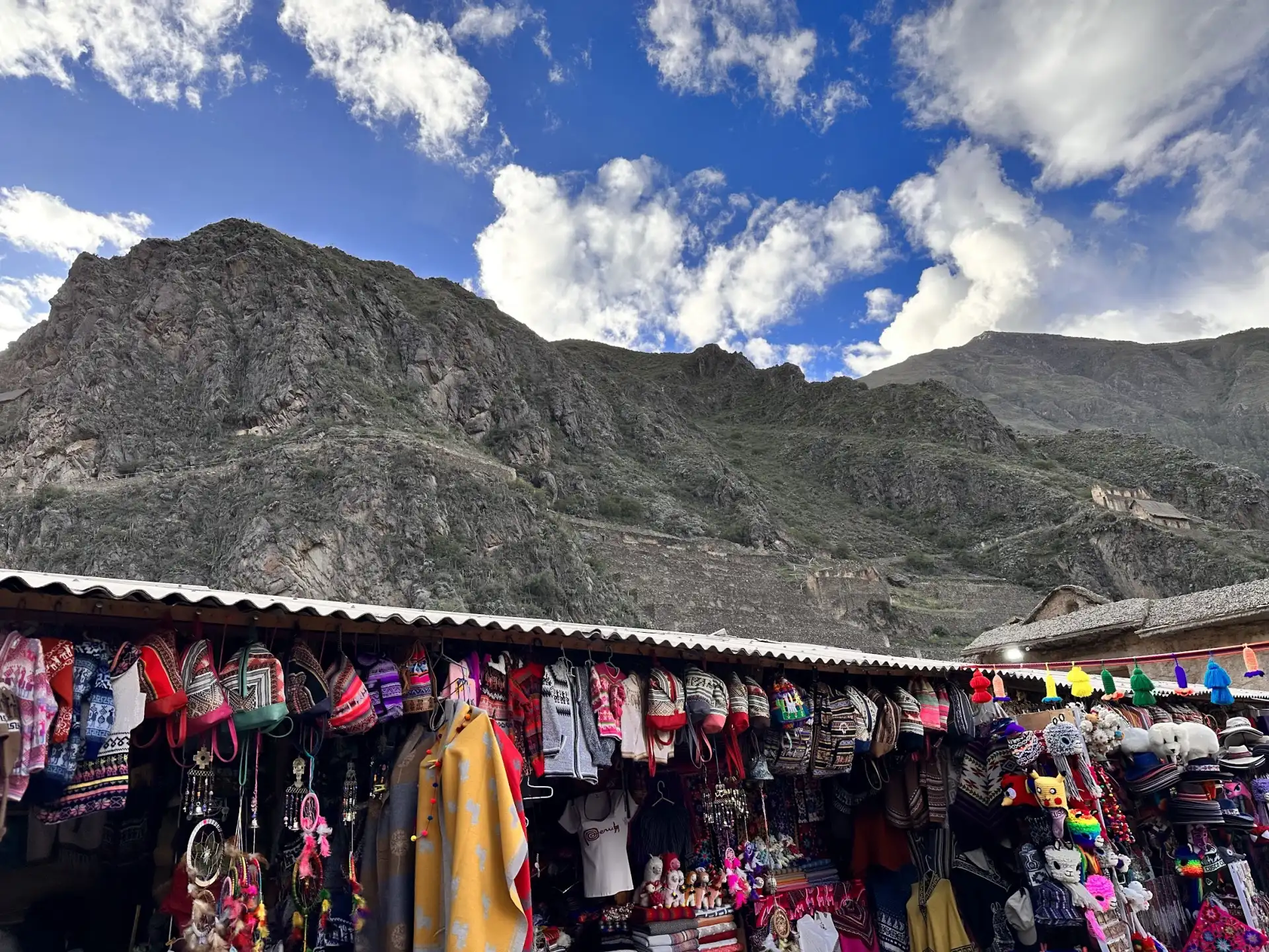
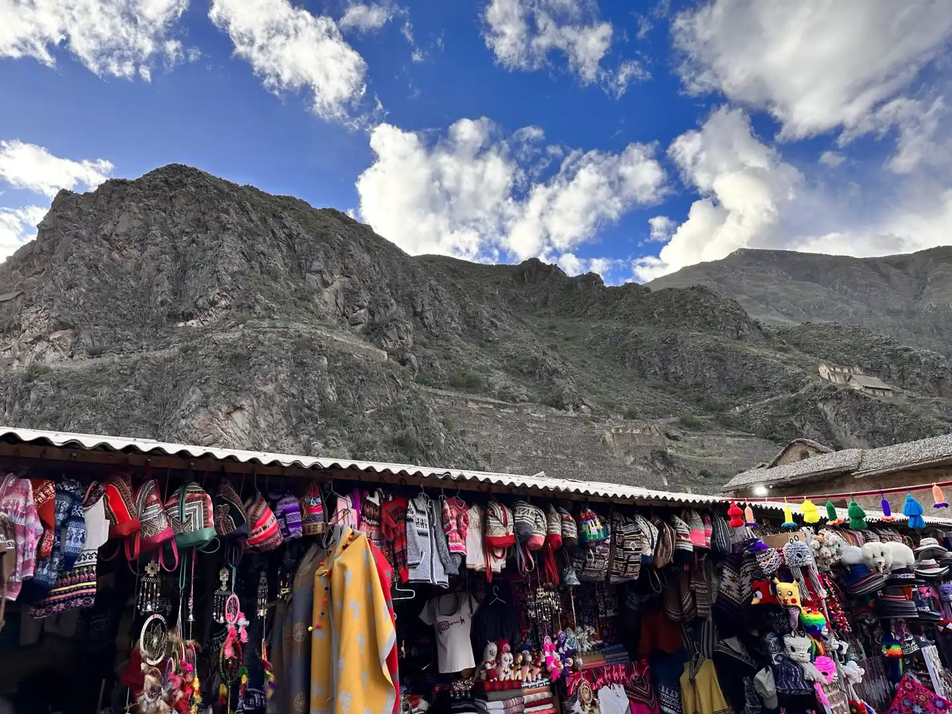
Ultra-optimize background images: 323KB → 167KB (-48%)
Aggressive optimization to achieve LCP < 2.5s and Performance 98+:

Image size reductions:
- Mobile: 19KB → 15KB (quality 50 → 35, -22%)
- Tablet: 68KB → 55KB (quality 52 → 38, -19%)
- Desktop: 323KB → 167KB (quality 55 → 40, 1920px → 1440px, -48%)

Technical changes:
- Reduced desktop resolution from 1920px to 1440px (sufficient for most screens)
- Lowered WebP quality to 35-40 range for faster LCP
- Updated srcset widths: 1920w → 1440w
- Updated img dimensions: 1920x1440 → 1440x1080

Expected impact: LCP 5.3s → < 2.5s, Performance 62 → 98+

🤖 Generated with [Claude Code](https://claude.com/claude-code)

diff --git a/index.html b/index.html
@@ -35,7 +35,7 @@
     <!-- Preload critical resources -->
     <link rel="preload" href="assets/css/bootstrap.min.css" as="style">
     <link rel="preload" href="assets/css/main.css" as="style">
-    <link rel="preload" href="assets/img/background/bg-2-desktop.webp" as="image" type="image/webp" imagesrcset="assets/img/background/bg-2-mobile.webp 375w, assets/img/background/bg-2-tablet.webp 768w, assets/img/background/bg-2-desktop.webp 1920w" imagesizes="100vw">
+    <link rel="preload" href="assets/img/background/bg-2-desktop.webp" as="image" type="image/webp" imagesrcset="assets/img/background/bg-2-mobile.webp 375w, assets/img/background/bg-2-tablet.webp 768w, assets/img/background/bg-2-desktop.webp 1440w" imagesizes="100vw">
     
     <title>Elio Navarrete | QA Lead | Professor</title>
     <!-- Open Graph  -->
@@ -858,14 +858,14 @@
       <img
         srcset="assets/img/background/bg-2-mobile.webp 375w,
                 assets/img/background/bg-2-tablet.webp 768w,
-                assets/img/background/bg-2-desktop.webp 1920w"
+                assets/img/background/bg-2-desktop.webp 1440w"
         sizes="100vw"
         src="assets/img/background/bg-2-desktop.webp"
         fetchpriority="high"
         class="counter-bg-image"
         alt=""
-        width="1920"
-        height="1440">
+        width="1440"
+        height="1080">
       <div class="container">
         <div class="row">
           <!-- Counter Item -->
